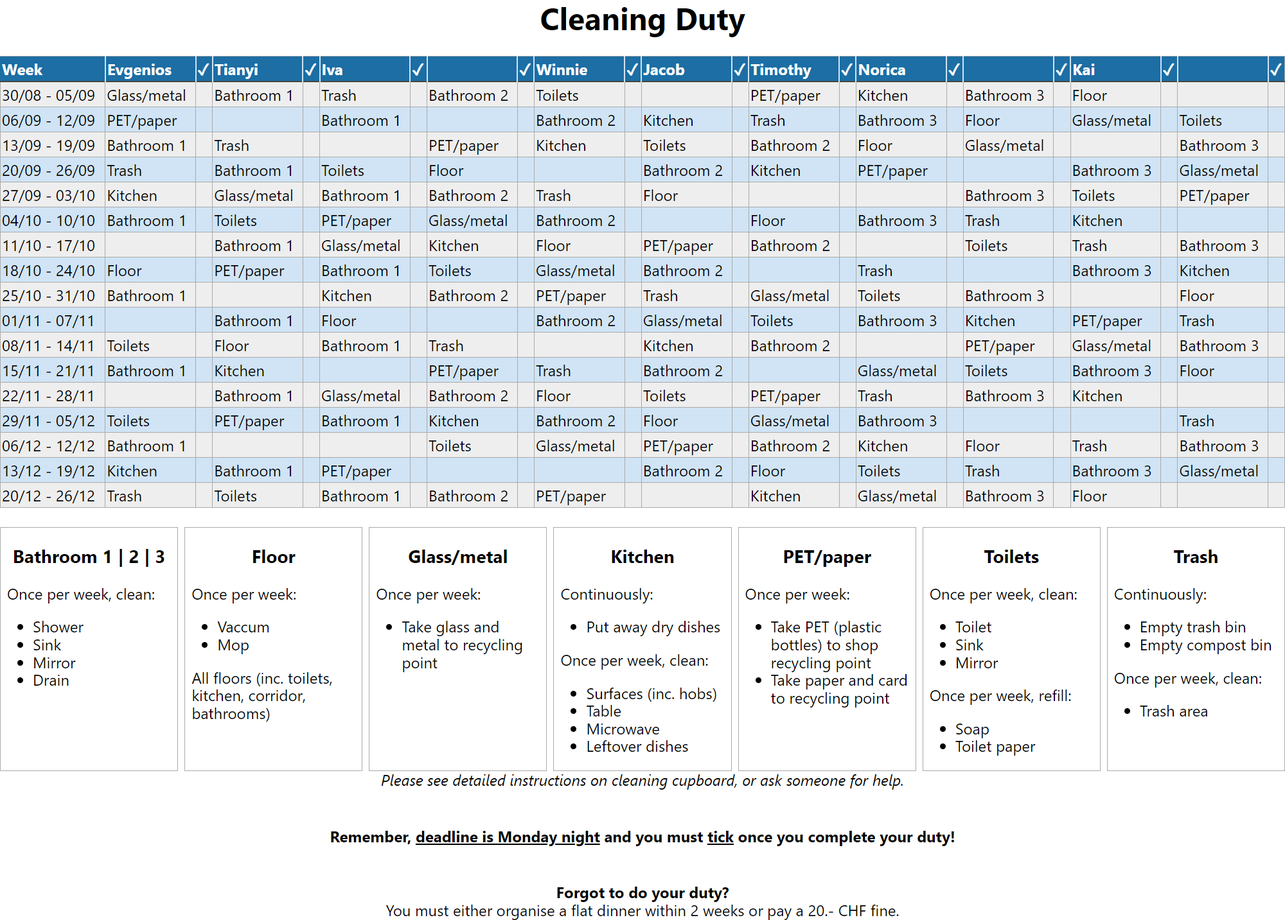
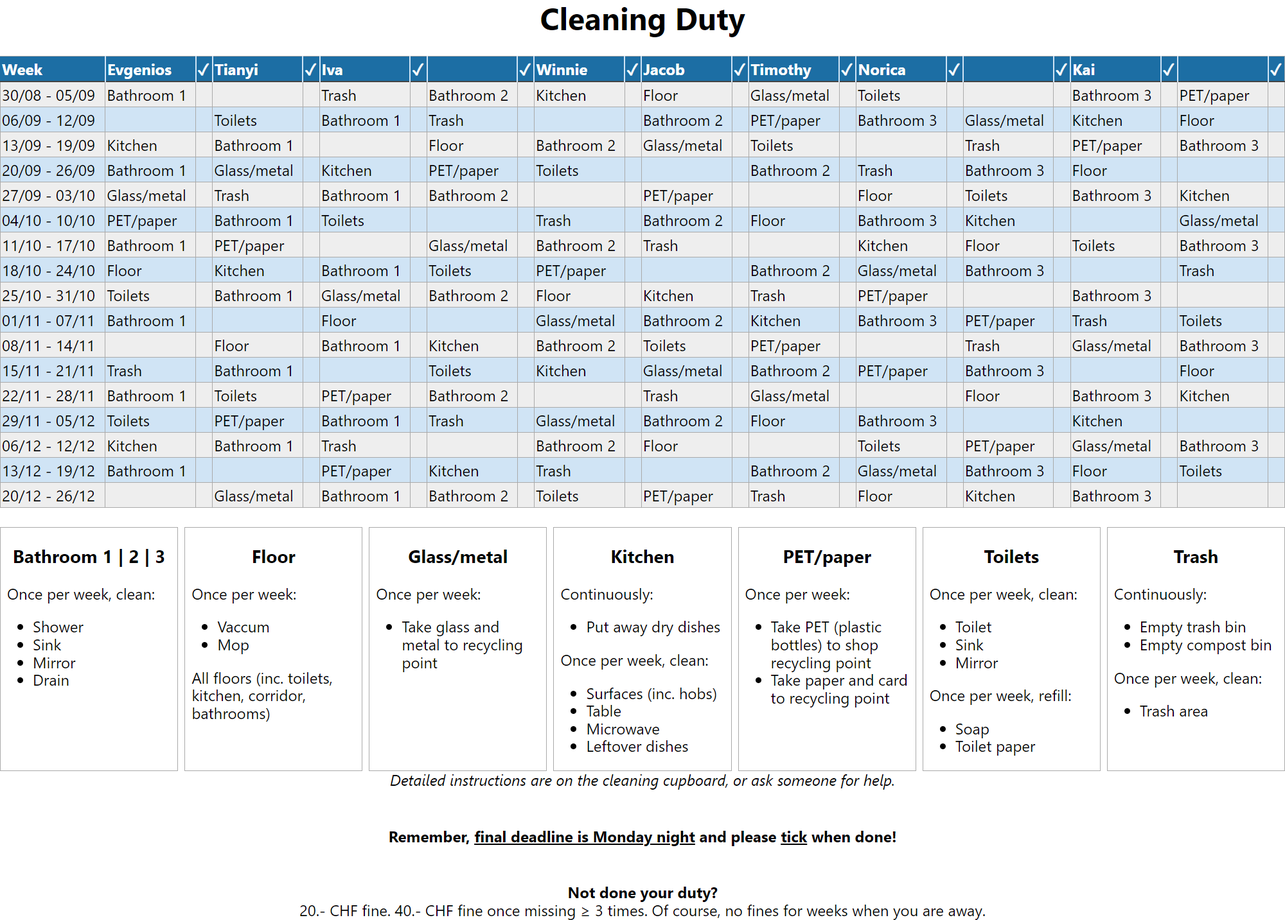
New generation

diff --git a/cleaning_duty.html b/cleaning_duty.html
@@ -10,23 +10,23 @@
 <tr><th>Week         </th><th>Evgenios   </th><th>✓  </th><th>Tianyi     </th><th>✓  </th><th>Iva        </th><th>✓  </th><th>           </th><th>✓  </th><th>Winnie     </th><th>✓  </th><th>Jacob      </th><th>✓  </th><th>Timothy    </th><th>✓  </th><th>Norica     </th><th>✓  </th><th>           </th><th>✓  </th><th>Kai        </th><th>✓  </th><th>           </th><th>✓  </th></tr>
 </thead>
 <tbody>
-<tr><td>30/08 - 05/09</td><td>Glass/metal</td><td>   </td><td>Bathroom 1 </td><td>   </td><td>Trash      </td><td>   </td><td>Bathroom 2 </td><td>   </td><td>Toilets    </td><td>   </td><td>           </td><td>   </td><td>PET/paper  </td><td>   </td><td>Kitchen    </td><td>   </td><td>Bathroom 3 </td><td>   </td><td>Floor      </td><td>   </td><td>           </td><td>   </td></tr>
-<tr><td>06/09 - 12/09</td><td>PET/paper  </td><td>   </td><td>           </td><td>   </td><td>Bathroom 1 </td><td>   </td><td>           </td><td>   </td><td>Bathroom 2 </td><td>   </td><td>Kitchen    </td><td>   </td><td>Trash      </td><td>   </td><td>Bathroom 3 </td><td>   </td><td>Floor      </td><td>   </td><td>Glass/metal</td><td>   </td><td>Toilets    </td><td>   </td></tr>
-<tr><td>13/09 - 19/09</td><td>Bathroom 1 </td><td>   </td><td>Trash      </td><td>   </td><td>           </td><td>   </td><td>PET/paper  </td><td>   </td><td>Kitchen    </td><td>   </td><td>Toilets    </td><td>   </td><td>Bathroom 2 </td><td>   </td><td>Floor      </td><td>   </td><td>Glass/metal</td><td>   </td><td>           </td><td>   </td><td>Bathroom 3 </td><td>   </td></tr>
-<tr><td>20/09 - 26/09</td><td>Trash      </td><td>   </td><td>Bathroom 1 </td><td>   </td><td>Toilets    </td><td>   </td><td>Floor      </td><td>   </td><td>           </td><td>   </td><td>Bathroom 2 </td><td>   </td><td>Kitchen    </td><td>   </td><td>PET/paper  </td><td>   </td><td>           </td><td>   </td><td>Bathroom 3 </td><td>   </td><td>Glass/metal</td><td>   </td></tr>
-<tr><td>27/09 - 03/10</td><td>Kitchen    </td><td>   </td><td>Glass/metal</td><td>   </td><td>Bathroom 1 </td><td>   </td><td>Bathroom 2 </td><td>   </td><td>Trash      </td><td>   </td><td>Floor      </td><td>   </td><td>           </td><td>   </td><td>           </td><td>   </td><td>Bathroom 3 </td><td>   </td><td>Toilets    </td><td>   </td><td>PET/paper  </td><td>   </td></tr>
-<tr><td>04/10 - 10/10</td><td>Bathroom 1 </td><td>   </td><td>Toilets    </td><td>   </td><td>PET/paper  </td><td>   </td><td>Glass/metal</td><td>   </td><td>Bathroom 2 </td><td>   </td><td>           </td><td>   </td><td>Floor      </td><td>   </td><td>Bathroom 3 </td><td>   </td><td>Trash      </td><td>   </td><td>Kitchen    </td><td>   </td><td>           </td><td>   </td></tr>
-<tr><td>11/10 - 17/10</td><td>           </td><td>   </td><td>Bathroom 1 </td><td>   </td><td>Glass/metal</td><td>   </td><td>Kitchen    </td><td>   </td><td>Floor      </td><td>   </td><td>PET/paper  </td><td>   </td><td>Bathroom 2 </td><td>   </td><td>           </td><td>   </td><td>Toilets    </td><td>   </td><td>Trash      </td><td>   </td><td>Bathroom 3 </td><td>   </td></tr>
-<tr><td>18/10 - 24/10</td><td>Floor      </td><td>   </td><td>PET/paper  </td><td>   </td><td>Bathroom 1 </td><td>   </td><td>Toilets    </td><td>   </td><td>Glass/metal</td><td>   </td><td>Bathroom 2 </td><td>   </td><td>           </td><td>   </td><td>Trash      </td><td>   </td><td>           </td><td>   </td><td>Bathroom 3 </td><td>   </td><td>Kitchen    </td><td>   </td></tr>
-<tr><td>25/10 - 31/10</td><td>Bathroom 1 </td><td>   </td><td>           </td><td>   </td><td>Kitchen    </td><td>   </td><td>Bathroom 2 </td><td>   </td><td>PET/paper  </td><td>   </td><td>Trash      </td><td>   </td><td>Glass/metal</td><td>   </td><td>Toilets    </td><td>   </td><td>Bathroom 3 </td><td>   </td><td>           </td><td>   </td><td>Floor      </td><td>   </td></tr>
-<tr><td>01/11 - 07/11</td><td>           </td><td>   </td><td>Bathroom 1 </td><td>   </td><td>Floor      </td><td>   </td><td>           </td><td>   </td><td>Bathroom 2 </td><td>   </td><td>Glass/metal</td><td>   </td><td>Toilets    </td><td>   </td><td>Bathroom 3 </td><td>   </td><td>Kitchen    </td><td>   </td><td>PET/paper  </td><td>   </td><td>Trash      </td><td>   </td></tr>
-<tr><td>08/11 - 14/11</td><td>Toilets    </td><td>   </td><td>Floor      </td><td>   </td><td>Bathroom 1 </td><td>   </td><td>Trash      </td><td>   </td><td>           </td><td>   </td><td>Kitchen    </td><td>   </td><td>Bathroom 2 </td><td>   </td><td>           </td><td>   </td><td>PET/paper  </td><td>   </td><td>Glass/metal</td><td>   </td><td>Bathroom 3 </td><td>   </td></tr>
-<tr><td>15/11 - 21/11</td><td>Bathroom 1 </td><td>   </td><td>Kitchen    </td><td>   </td><td>           </td><td>   </td><td>PET/paper  </td><td>   </td><td>Trash      </td><td>   </td><td>Bathroom 2 </td><td>   </td><td>           </td><td>   </td><td>Glass/metal</td><td>   </td><td>Toilets    </td><td>   </td><td>Bathroom 3 </td><td>   </td><td>Floor      </td><td>   </td></tr>
-<tr><td>22/11 - 28/11</td><td>           </td><td>   </td><td>Bathroom 1 </td><td>   </td><td>Glass/metal</td><td>   </td><td>Bathroom 2 </td><td>   </td><td>Floor      </td><td>   </td><td>Toilets    </td><td>   </td><td>PET/paper  </td><td>   </td><td>Trash      </td><td>   </td><td>Bathroom 3 </td><td>   </td><td>Kitchen    </td><td>   </td><td>           </td><td>   </td></tr>
-<tr><td>29/11 - 05/12</td><td>Toilets    </td><td>   </td><td>PET/paper  </td><td>   </td><td>Bathroom 1 </td><td>   </td><td>Kitchen    </td><td>   </td><td>Bathroom 2 </td><td>   </td><td>Floor      </td><td>   </td><td>Glass/metal</td><td>   </td><td>Bathroom 3 </td><td>   </td><td>           </td><td>   </td><td>           </td><td>   </td><td>Trash      </td><td>   </td></tr>
-<tr><td>06/12 - 12/12</td><td>Bathroom 1 </td><td>   </td><td>           </td><td>   </td><td>           </td><td>   </td><td>Toilets    </td><td>   </td><td>Glass/metal</td><td>   </td><td>PET/paper  </td><td>   </td><td>Bathroom 2 </td><td>   </td><td>Kitchen    </td><td>   </td><td>Floor      </td><td>   </td><td>Trash      </td><td>   </td><td>Bathroom 3 </td><td>   </td></tr>
-<tr><td>13/12 - 19/12</td><td>Kitchen    </td><td>   </td><td>Bathroom 1 </td><td>   </td><td>PET/paper  </td><td>   </td><td>           </td><td>   </td><td>           </td><td>   </td><td>Bathroom 2 </td><td>   </td><td>Floor      </td><td>   </td><td>Toilets    </td><td>   </td><td>Trash      </td><td>   </td><td>Bathroom 3 </td><td>   </td><td>Glass/metal</td><td>   </td></tr>
-<tr><td>20/12 - 26/12</td><td>Trash      </td><td>   </td><td>Toilets    </td><td>   </td><td>Bathroom 1 </td><td>   </td><td>Bathroom 2 </td><td>   </td><td>PET/paper  </td><td>   </td><td>           </td><td>   </td><td>Kitchen    </td><td>   </td><td>Glass/metal</td><td>   </td><td>Bathroom 3 </td><td>   </td><td>Floor      </td><td>   </td><td>           </td><td>   </td></tr>
+<tr><td>30/08 - 05/09</td><td>Bathroom 1 </td><td>   </td><td>           </td><td>   </td><td>Trash      </td><td>   </td><td>Bathroom 2 </td><td>   </td><td>Kitchen    </td><td>   </td><td>Floor      </td><td>   </td><td>Glass/metal</td><td>   </td><td>Toilets    </td><td>   </td><td>           </td><td>   </td><td>Bathroom 3 </td><td>   </td><td>PET/paper  </td><td>   </td></tr>
+<tr><td>06/09 - 12/09</td><td>           </td><td>   </td><td>Toilets    </td><td>   </td><td>Bathroom 1 </td><td>   </td><td>Trash      </td><td>   </td><td>           </td><td>   </td><td>Bathroom 2 </td><td>   </td><td>PET/paper  </td><td>   </td><td>Bathroom 3 </td><td>   </td><td>Glass/metal</td><td>   </td><td>Kitchen    </td><td>   </td><td>Floor      </td><td>   </td></tr>
+<tr><td>13/09 - 19/09</td><td>Kitchen    </td><td>   </td><td>Bathroom 1 </td><td>   </td><td>           </td><td>   </td><td>Floor      </td><td>   </td><td>Bathroom 2 </td><td>   </td><td>Glass/metal</td><td>   </td><td>Toilets    </td><td>   </td><td>           </td><td>   </td><td>Trash      </td><td>   </td><td>PET/paper  </td><td>   </td><td>Bathroom 3 </td><td>   </td></tr>
+<tr><td>20/09 - 26/09</td><td>Bathroom 1 </td><td>   </td><td>Glass/metal</td><td>   </td><td>Kitchen    </td><td>   </td><td>PET/paper  </td><td>   </td><td>Toilets    </td><td>   </td><td>           </td><td>   </td><td>Bathroom 2 </td><td>   </td><td>Trash      </td><td>   </td><td>Bathroom 3 </td><td>   </td><td>Floor      </td><td>   </td><td>           </td><td>   </td></tr>
+<tr><td>27/09 - 03/10</td><td>Glass/metal</td><td>   </td><td>Trash      </td><td>   </td><td>Bathroom 1 </td><td>   </td><td>Bathroom 2 </td><td>   </td><td>           </td><td>   </td><td>PET/paper  </td><td>   </td><td>           </td><td>   </td><td>Floor      </td><td>   </td><td>Toilets    </td><td>   </td><td>Bathroom 3 </td><td>   </td><td>Kitchen    </td><td>   </td></tr>
+<tr><td>04/10 - 10/10</td><td>PET/paper  </td><td>   </td><td>Bathroom 1 </td><td>   </td><td>Toilets    </td><td>   </td><td>           </td><td>   </td><td>Trash      </td><td>   </td><td>Bathroom 2 </td><td>   </td><td>Floor      </td><td>   </td><td>Bathroom 3 </td><td>   </td><td>Kitchen    </td><td>   </td><td>           </td><td>   </td><td>Glass/metal</td><td>   </td></tr>
+<tr><td>11/10 - 17/10</td><td>Bathroom 1 </td><td>   </td><td>PET/paper  </td><td>   </td><td>           </td><td>   </td><td>Glass/metal</td><td>   </td><td>Bathroom 2 </td><td>   </td><td>Trash      </td><td>   </td><td>           </td><td>   </td><td>Kitchen    </td><td>   </td><td>Floor      </td><td>   </td><td>Toilets    </td><td>   </td><td>Bathroom 3 </td><td>   </td></tr>
+<tr><td>18/10 - 24/10</td><td>Floor      </td><td>   </td><td>Kitchen    </td><td>   </td><td>Bathroom 1 </td><td>   </td><td>Toilets    </td><td>   </td><td>PET/paper  </td><td>   </td><td>           </td><td>   </td><td>Bathroom 2 </td><td>   </td><td>Glass/metal</td><td>   </td><td>Bathroom 3 </td><td>   </td><td>           </td><td>   </td><td>Trash      </td><td>   </td></tr>
+<tr><td>25/10 - 31/10</td><td>Toilets    </td><td>   </td><td>Bathroom 1 </td><td>   </td><td>Glass/metal</td><td>   </td><td>Bathroom 2 </td><td>   </td><td>Floor      </td><td>   </td><td>Kitchen    </td><td>   </td><td>Trash      </td><td>   </td><td>PET/paper  </td><td>   </td><td>           </td><td>   </td><td>Bathroom 3 </td><td>   </td><td>           </td><td>   </td></tr>
+<tr><td>01/11 - 07/11</td><td>Bathroom 1 </td><td>   </td><td>           </td><td>   </td><td>Floor      </td><td>   </td><td>           </td><td>   </td><td>Glass/metal</td><td>   </td><td>Bathroom 2 </td><td>   </td><td>Kitchen    </td><td>   </td><td>Bathroom 3 </td><td>   </td><td>PET/paper  </td><td>   </td><td>Trash      </td><td>   </td><td>Toilets    </td><td>   </td></tr>
+<tr><td>08/11 - 14/11</td><td>           </td><td>   </td><td>Floor      </td><td>   </td><td>Bathroom 1 </td><td>   </td><td>Kitchen    </td><td>   </td><td>Bathroom 2 </td><td>   </td><td>Toilets    </td><td>   </td><td>PET/paper  </td><td>   </td><td>           </td><td>   </td><td>Trash      </td><td>   </td><td>Glass/metal</td><td>   </td><td>Bathroom 3 </td><td>   </td></tr>
+<tr><td>15/11 - 21/11</td><td>Trash      </td><td>   </td><td>Bathroom 1 </td><td>   </td><td>           </td><td>   </td><td>Toilets    </td><td>   </td><td>Kitchen    </td><td>   </td><td>Glass/metal</td><td>   </td><td>Bathroom 2 </td><td>   </td><td>PET/paper  </td><td>   </td><td>Bathroom 3 </td><td>   </td><td>           </td><td>   </td><td>Floor      </td><td>   </td></tr>
+<tr><td>22/11 - 28/11</td><td>Bathroom 1 </td><td>   </td><td>Toilets    </td><td>   </td><td>PET/paper  </td><td>   </td><td>Bathroom 2 </td><td>   </td><td>           </td><td>   </td><td>Trash      </td><td>   </td><td>Glass/metal</td><td>   </td><td>           </td><td>   </td><td>Floor      </td><td>   </td><td>Bathroom 3 </td><td>   </td><td>Kitchen    </td><td>   </td></tr>
+<tr><td>29/11 - 05/12</td><td>Toilets    </td><td>   </td><td>PET/paper  </td><td>   </td><td>Bathroom 1 </td><td>   </td><td>Trash      </td><td>   </td><td>Glass/metal</td><td>   </td><td>Bathroom 2 </td><td>   </td><td>Floor      </td><td>   </td><td>Bathroom 3 </td><td>   </td><td>           </td><td>   </td><td>Kitchen    </td><td>   </td><td>           </td><td>   </td></tr>
+<tr><td>06/12 - 12/12</td><td>Kitchen    </td><td>   </td><td>Bathroom 1 </td><td>   </td><td>Trash      </td><td>   </td><td>           </td><td>   </td><td>Bathroom 2 </td><td>   </td><td>Floor      </td><td>   </td><td>           </td><td>   </td><td>Toilets    </td><td>   </td><td>PET/paper  </td><td>   </td><td>Glass/metal</td><td>   </td><td>Bathroom 3 </td><td>   </td></tr>
+<tr><td>13/12 - 19/12</td><td>Bathroom 1 </td><td>   </td><td>           </td><td>   </td><td>PET/paper  </td><td>   </td><td>Kitchen    </td><td>   </td><td>Trash      </td><td>   </td><td>           </td><td>   </td><td>Bathroom 2 </td><td>   </td><td>Glass/metal</td><td>   </td><td>Bathroom 3 </td><td>   </td><td>Floor      </td><td>   </td><td>Toilets    </td><td>   </td></tr>
+<tr><td>20/12 - 26/12</td><td>           </td><td>   </td><td>Glass/metal</td><td>   </td><td>Bathroom 1 </td><td>   </td><td>Bathroom 2 </td><td>   </td><td>Toilets    </td><td>   </td><td>PET/paper  </td><td>   </td><td>Trash      </td><td>   </td><td>Floor      </td><td>   </td><td>Kitchen    </td><td>   </td><td>Bathroom 3 </td><td>   </td><td>           </td><td>   </td></tr>
 </tbody>
 </table>
 <div class="container">
@@ -105,11 +105,11 @@
 		</ul>
 	</div>
 </div>
-<center><i>Please see detailed instructions on cleaning cupboard, or ask someone for help.</i></center>
+<center><i>Detailed instructions are on the cleaning cupboard, or ask someone for help.</i></center>
 
-<h4>Remember, <u>deadline is Monday night</u> and you must <u>tick</u> once you complete your duty!</h4>
+<h4>Remember, <u>final deadline is Monday night</u> and please <u>tick</u> when done!</h4>
 
-<h4>Forgot to do your duty?</h4>
-<center>You must either organise a flat dinner within 2 weeks or pay a 20.- CHF fine.</center>
+<h4>Not done your duty?</h4>
+<center>20.- CHF fine. 40.- CHF fine once missing &GreaterEqual; 3 times. Of course, no fines for weeks when you are away.</center>
 </body>
 </html>

diff --git a/html/table.html b/html/table.html
@@ -3,22 +3,22 @@
 <tr><th>Week         </th><th>Evgenios   </th><th>✓  </th><th>Tianyi     </th><th>✓  </th><th>Iva        </th><th>✓  </th><th>           </th><th>✓  </th><th>Winnie     </th><th>✓  </th><th>Jacob      </th><th>✓  </th><th>Timothy    </th><th>✓  </th><th>Norica     </th><th>✓  </th><th>           </th><th>✓  </th><th>Kai        </th><th>✓  </th><th>           </th><th>✓  </th></tr>
 </thead>
 <tbody>
-<tr><td>30/08 - 05/09</td><td>Glass/metal</td><td>   </td><td>Bathroom 1 </td><td>   </td><td>Trash      </td><td>   </td><td>Bathroom 2 </td><td>   </td><td>Toilets    </td><td>   </td><td>           </td><td>   </td><td>PET/paper  </td><td>   </td><td>Kitchen    </td><td>   </td><td>Bathroom 3 </td><td>   </td><td>Floor      </td><td>   </td><td>           </td><td>   </td></tr>
-<tr><td>06/09 - 12/09</td><td>PET/paper  </td><td>   </td><td>           </td><td>   </td><td>Bathroom 1 </td><td>   </td><td>           </td><td>   </td><td>Bathroom 2 </td><td>   </td><td>Kitchen    </td><td>   </td><td>Trash      </td><td>   </td><td>Bathroom 3 </td><td>   </td><td>Floor      </td><td>   </td><td>Glass/metal</td><td>   </td><td>Toilets    </td><td>   </td></tr>
-<tr><td>13/09 - 19/09</td><td>Bathroom 1 </td><td>   </td><td>Trash      </td><td>   </td><td>           </td><td>   </td><td>PET/paper  </td><td>   </td><td>Kitchen    </td><td>   </td><td>Toilets    </td><td>   </td><td>Bathroom 2 </td><td>   </td><td>Floor      </td><td>   </td><td>Glass/metal</td><td>   </td><td>           </td><td>   </td><td>Bathroom 3 </td><td>   </td></tr>
-<tr><td>20/09 - 26/09</td><td>Trash      </td><td>   </td><td>Bathroom 1 </td><td>   </td><td>Toilets    </td><td>   </td><td>Floor      </td><td>   </td><td>           </td><td>   </td><td>Bathroom 2 </td><td>   </td><td>Kitchen    </td><td>   </td><td>PET/paper  </td><td>   </td><td>           </td><td>   </td><td>Bathroom 3 </td><td>   </td><td>Glass/metal</td><td>   </td></tr>
-<tr><td>27/09 - 03/10</td><td>Kitchen    </td><td>   </td><td>Glass/metal</td><td>   </td><td>Bathroom 1 </td><td>   </td><td>Bathroom 2 </td><td>   </td><td>Trash      </td><td>   </td><td>Floor      </td><td>   </td><td>           </td><td>   </td><td>           </td><td>   </td><td>Bathroom 3 </td><td>   </td><td>Toilets    </td><td>   </td><td>PET/paper  </td><td>   </td></tr>
-<tr><td>04/10 - 10/10</td><td>Bathroom 1 </td><td>   </td><td>Toilets    </td><td>   </td><td>PET/paper  </td><td>   </td><td>Glass/metal</td><td>   </td><td>Bathroom 2 </td><td>   </td><td>           </td><td>   </td><td>Floor      </td><td>   </td><td>Bathroom 3 </td><td>   </td><td>Trash      </td><td>   </td><td>Kitchen    </td><td>   </td><td>           </td><td>   </td></tr>
-<tr><td>11/10 - 17/10</td><td>           </td><td>   </td><td>Bathroom 1 </td><td>   </td><td>Glass/metal</td><td>   </td><td>Kitchen    </td><td>   </td><td>Floor      </td><td>   </td><td>PET/paper  </td><td>   </td><td>Bathroom 2 </td><td>   </td><td>           </td><td>   </td><td>Toilets    </td><td>   </td><td>Trash      </td><td>   </td><td>Bathroom 3 </td><td>   </td></tr>
-<tr><td>18/10 - 24/10</td><td>Floor      </td><td>   </td><td>PET/paper  </td><td>   </td><td>Bathroom 1 </td><td>   </td><td>Toilets    </td><td>   </td><td>Glass/metal</td><td>   </td><td>Bathroom 2 </td><td>   </td><td>           </td><td>   </td><td>Trash      </td><td>   </td><td>           </td><td>   </td><td>Bathroom 3 </td><td>   </td><td>Kitchen    </td><td>   </td></tr>
-<tr><td>25/10 - 31/10</td><td>Bathroom 1 </td><td>   </td><td>           </td><td>   </td><td>Kitchen    </td><td>   </td><td>Bathroom 2 </td><td>   </td><td>PET/paper  </td><td>   </td><td>Trash      </td><td>   </td><td>Glass/metal</td><td>   </td><td>Toilets    </td><td>   </td><td>Bathroom 3 </td><td>   </td><td>           </td><td>   </td><td>Floor      </td><td>   </td></tr>
-<tr><td>01/11 - 07/11</td><td>           </td><td>   </td><td>Bathroom 1 </td><td>   </td><td>Floor      </td><td>   </td><td>           </td><td>   </td><td>Bathroom 2 </td><td>   </td><td>Glass/metal</td><td>   </td><td>Toilets    </td><td>   </td><td>Bathroom 3 </td><td>   </td><td>Kitchen    </td><td>   </td><td>PET/paper  </td><td>   </td><td>Trash      </td><td>   </td></tr>
-<tr><td>08/11 - 14/11</td><td>Toilets    </td><td>   </td><td>Floor      </td><td>   </td><td>Bathroom 1 </td><td>   </td><td>Trash      </td><td>   </td><td>           </td><td>   </td><td>Kitchen    </td><td>   </td><td>Bathroom 2 </td><td>   </td><td>           </td><td>   </td><td>PET/paper  </td><td>   </td><td>Glass/metal</td><td>   </td><td>Bathroom 3 </td><td>   </td></tr>
-<tr><td>15/11 - 21/11</td><td>Bathroom 1 </td><td>   </td><td>Kitchen    </td><td>   </td><td>           </td><td>   </td><td>PET/paper  </td><td>   </td><td>Trash      </td><td>   </td><td>Bathroom 2 </td><td>   </td><td>           </td><td>   </td><td>Glass/metal</td><td>   </td><td>Toilets    </td><td>   </td><td>Bathroom 3 </td><td>   </td><td>Floor      </td><td>   </td></tr>
-<tr><td>22/11 - 28/11</td><td>           </td><td>   </td><td>Bathroom 1 </td><td>   </td><td>Glass/metal</td><td>   </td><td>Bathroom 2 </td><td>   </td><td>Floor      </td><td>   </td><td>Toilets    </td><td>   </td><td>PET/paper  </td><td>   </td><td>Trash      </td><td>   </td><td>Bathroom 3 </td><td>   </td><td>Kitchen    </td><td>   </td><td>           </td><td>   </td></tr>
-<tr><td>29/11 - 05/12</td><td>Toilets    </td><td>   </td><td>PET/paper  </td><td>   </td><td>Bathroom 1 </td><td>   </td><td>Kitchen    </td><td>   </td><td>Bathroom 2 </td><td>   </td><td>Floor      </td><td>   </td><td>Glass/metal</td><td>   </td><td>Bathroom 3 </td><td>   </td><td>           </td><td>   </td><td>           </td><td>   </td><td>Trash      </td><td>   </td></tr>
-<tr><td>06/12 - 12/12</td><td>Bathroom 1 </td><td>   </td><td>           </td><td>   </td><td>           </td><td>   </td><td>Toilets    </td><td>   </td><td>Glass/metal</td><td>   </td><td>PET/paper  </td><td>   </td><td>Bathroom 2 </td><td>   </td><td>Kitchen    </td><td>   </td><td>Floor      </td><td>   </td><td>Trash      </td><td>   </td><td>Bathroom 3 </td><td>   </td></tr>
-<tr><td>13/12 - 19/12</td><td>Kitchen    </td><td>   </td><td>Bathroom 1 </td><td>   </td><td>PET/paper  </td><td>   </td><td>           </td><td>   </td><td>           </td><td>   </td><td>Bathroom 2 </td><td>   </td><td>Floor      </td><td>   </td><td>Toilets    </td><td>   </td><td>Trash      </td><td>   </td><td>Bathroom 3 </td><td>   </td><td>Glass/metal</td><td>   </td></tr>
-<tr><td>20/12 - 26/12</td><td>Trash      </td><td>   </td><td>Toilets    </td><td>   </td><td>Bathroom 1 </td><td>   </td><td>Bathroom 2 </td><td>   </td><td>PET/paper  </td><td>   </td><td>           </td><td>   </td><td>Kitchen    </td><td>   </td><td>Glass/metal</td><td>   </td><td>Bathroom 3 </td><td>   </td><td>Floor      </td><td>   </td><td>           </td><td>   </td></tr>
+<tr><td>30/08 - 05/09</td><td>Bathroom 1 </td><td>   </td><td>           </td><td>   </td><td>Trash      </td><td>   </td><td>Bathroom 2 </td><td>   </td><td>Kitchen    </td><td>   </td><td>Floor      </td><td>   </td><td>Glass/metal</td><td>   </td><td>Toilets    </td><td>   </td><td>           </td><td>   </td><td>Bathroom 3 </td><td>   </td><td>PET/paper  </td><td>   </td></tr>
+<tr><td>06/09 - 12/09</td><td>           </td><td>   </td><td>Toilets    </td><td>   </td><td>Bathroom 1 </td><td>   </td><td>Trash      </td><td>   </td><td>           </td><td>   </td><td>Bathroom 2 </td><td>   </td><td>PET/paper  </td><td>   </td><td>Bathroom 3 </td><td>   </td><td>Glass/metal</td><td>   </td><td>Kitchen    </td><td>   </td><td>Floor      </td><td>   </td></tr>
+<tr><td>13/09 - 19/09</td><td>Kitchen    </td><td>   </td><td>Bathroom 1 </td><td>   </td><td>           </td><td>   </td><td>Floor      </td><td>   </td><td>Bathroom 2 </td><td>   </td><td>Glass/metal</td><td>   </td><td>Toilets    </td><td>   </td><td>           </td><td>   </td><td>Trash      </td><td>   </td><td>PET/paper  </td><td>   </td><td>Bathroom 3 </td><td>   </td></tr>
+<tr><td>20/09 - 26/09</td><td>Bathroom 1 </td><td>   </td><td>Glass/metal</td><td>   </td><td>Kitchen    </td><td>   </td><td>PET/paper  </td><td>   </td><td>Toilets    </td><td>   </td><td>           </td><td>   </td><td>Bathroom 2 </td><td>   </td><td>Trash      </td><td>   </td><td>Bathroom 3 </td><td>   </td><td>Floor      </td><td>   </td><td>           </td><td>   </td></tr>
+<tr><td>27/09 - 03/10</td><td>Glass/metal</td><td>   </td><td>Trash      </td><td>   </td><td>Bathroom 1 </td><td>   </td><td>Bathroom 2 </td><td>   </td><td>           </td><td>   </td><td>PET/paper  </td><td>   </td><td>           </td><td>   </td><td>Floor      </td><td>   </td><td>Toilets    </td><td>   </td><td>Bathroom 3 </td><td>   </td><td>Kitchen    </td><td>   </td></tr>
+<tr><td>04/10 - 10/10</td><td>PET/paper  </td><td>   </td><td>Bathroom 1 </td><td>   </td><td>Toilets    </td><td>   </td><td>           </td><td>   </td><td>Trash      </td><td>   </td><td>Bathroom 2 </td><td>   </td><td>Floor      </td><td>   </td><td>Bathroom 3 </td><td>   </td><td>Kitchen    </td><td>   </td><td>           </td><td>   </td><td>Glass/metal</td><td>   </td></tr>
+<tr><td>11/10 - 17/10</td><td>Bathroom 1 </td><td>   </td><td>PET/paper  </td><td>   </td><td>           </td><td>   </td><td>Glass/metal</td><td>   </td><td>Bathroom 2 </td><td>   </td><td>Trash      </td><td>   </td><td>           </td><td>   </td><td>Kitchen    </td><td>   </td><td>Floor      </td><td>   </td><td>Toilets    </td><td>   </td><td>Bathroom 3 </td><td>   </td></tr>
+<tr><td>18/10 - 24/10</td><td>Floor      </td><td>   </td><td>Kitchen    </td><td>   </td><td>Bathroom 1 </td><td>   </td><td>Toilets    </td><td>   </td><td>PET/paper  </td><td>   </td><td>           </td><td>   </td><td>Bathroom 2 </td><td>   </td><td>Glass/metal</td><td>   </td><td>Bathroom 3 </td><td>   </td><td>           </td><td>   </td><td>Trash      </td><td>   </td></tr>
+<tr><td>25/10 - 31/10</td><td>Toilets    </td><td>   </td><td>Bathroom 1 </td><td>   </td><td>Glass/metal</td><td>   </td><td>Bathroom 2 </td><td>   </td><td>Floor      </td><td>   </td><td>Kitchen    </td><td>   </td><td>Trash      </td><td>   </td><td>PET/paper  </td><td>   </td><td>           </td><td>   </td><td>Bathroom 3 </td><td>   </td><td>           </td><td>   </td></tr>
+<tr><td>01/11 - 07/11</td><td>Bathroom 1 </td><td>   </td><td>           </td><td>   </td><td>Floor      </td><td>   </td><td>           </td><td>   </td><td>Glass/metal</td><td>   </td><td>Bathroom 2 </td><td>   </td><td>Kitchen    </td><td>   </td><td>Bathroom 3 </td><td>   </td><td>PET/paper  </td><td>   </td><td>Trash      </td><td>   </td><td>Toilets    </td><td>   </td></tr>
+<tr><td>08/11 - 14/11</td><td>           </td><td>   </td><td>Floor      </td><td>   </td><td>Bathroom 1 </td><td>   </td><td>Kitchen    </td><td>   </td><td>Bathroom 2 </td><td>   </td><td>Toilets    </td><td>   </td><td>PET/paper  </td><td>   </td><td>           </td><td>   </td><td>Trash      </td><td>   </td><td>Glass/metal</td><td>   </td><td>Bathroom 3 </td><td>   </td></tr>
+<tr><td>15/11 - 21/11</td><td>Trash      </td><td>   </td><td>Bathroom 1 </td><td>   </td><td>           </td><td>   </td><td>Toilets    </td><td>   </td><td>Kitchen    </td><td>   </td><td>Glass/metal</td><td>   </td><td>Bathroom 2 </td><td>   </td><td>PET/paper  </td><td>   </td><td>Bathroom 3 </td><td>   </td><td>           </td><td>   </td><td>Floor      </td><td>   </td></tr>
+<tr><td>22/11 - 28/11</td><td>Bathroom 1 </td><td>   </td><td>Toilets    </td><td>   </td><td>PET/paper  </td><td>   </td><td>Bathroom 2 </td><td>   </td><td>           </td><td>   </td><td>Trash      </td><td>   </td><td>Glass/metal</td><td>   </td><td>           </td><td>   </td><td>Floor      </td><td>   </td><td>Bathroom 3 </td><td>   </td><td>Kitchen    </td><td>   </td></tr>
+<tr><td>29/11 - 05/12</td><td>Toilets    </td><td>   </td><td>PET/paper  </td><td>   </td><td>Bathroom 1 </td><td>   </td><td>Trash      </td><td>   </td><td>Glass/metal</td><td>   </td><td>Bathroom 2 </td><td>   </td><td>Floor      </td><td>   </td><td>Bathroom 3 </td><td>   </td><td>           </td><td>   </td><td>Kitchen    </td><td>   </td><td>           </td><td>   </td></tr>
+<tr><td>06/12 - 12/12</td><td>Kitchen    </td><td>   </td><td>Bathroom 1 </td><td>   </td><td>Trash      </td><td>   </td><td>           </td><td>   </td><td>Bathroom 2 </td><td>   </td><td>Floor      </td><td>   </td><td>           </td><td>   </td><td>Toilets    </td><td>   </td><td>PET/paper  </td><td>   </td><td>Glass/metal</td><td>   </td><td>Bathroom 3 </td><td>   </td></tr>
+<tr><td>13/12 - 19/12</td><td>Bathroom 1 </td><td>   </td><td>           </td><td>   </td><td>PET/paper  </td><td>   </td><td>Kitchen    </td><td>   </td><td>Trash      </td><td>   </td><td>           </td><td>   </td><td>Bathroom 2 </td><td>   </td><td>Glass/metal</td><td>   </td><td>Bathroom 3 </td><td>   </td><td>Floor      </td><td>   </td><td>Toilets    </td><td>   </td></tr>
+<tr><td>20/12 - 26/12</td><td>           </td><td>   </td><td>Glass/metal</td><td>   </td><td>Bathroom 1 </td><td>   </td><td>Bathroom 2 </td><td>   </td><td>Toilets    </td><td>   </td><td>PET/paper  </td><td>   </td><td>Trash      </td><td>   </td><td>Floor      </td><td>   </td><td>Kitchen    </td><td>   </td><td>Bathroom 3 </td><td>   </td><td>           </td><td>   </td></tr>
 </tbody>
 </table>

diff --git a/html/end.html b/html/end.html
@@ -74,11 +74,11 @@
 		</ul>
 	</div>
 </div>
-<center><i>Please see detailed instructions on cleaning cupboard, or ask someone for help.</i></center>
+<center><i>Detailed instructions are on the cleaning cupboard, or ask someone for help.</i></center>
 
-<h4>Remember, <u>deadline is Monday night</u> and you must <u>tick</u> once you complete your duty!</h4>
+<h4>Remember, <u>final deadline is Monday night</u> and please <u>tick</u> when done!</h4>
 
-<h4>Forgot to do your duty?</h4>
-<center>You must either organise a flat dinner within 2 weeks or pay a 20.- CHF fine.</center>
+<h4>Not done your duty?</h4>
+<center>20.- CHF fine. 40.- CHF fine once missing &GreaterEqual; 3 times. Of course, no fines for weeks when you are away.</center>
 </body>
 </html>
